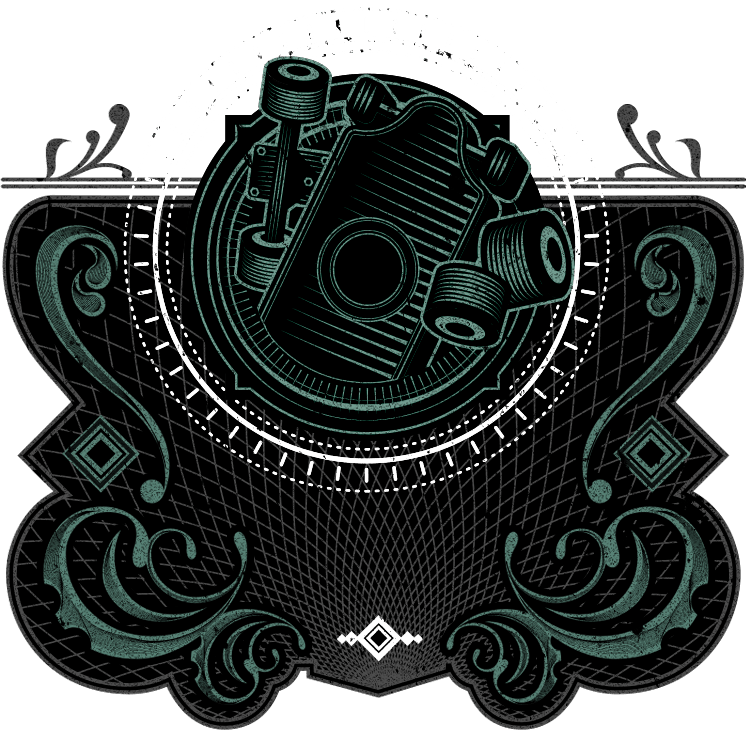
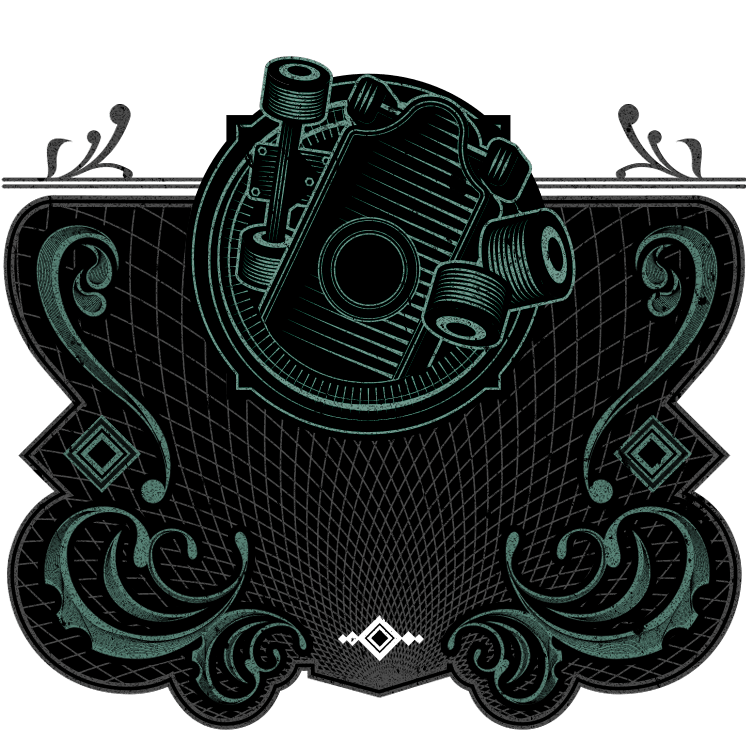
fix: (formDirective) responsive design

Changed region(s): [[0.0, 0.0602, 1.0, 1.0], [0.8324, 0.1505, 0.9558, 0.2408], [0.5858, 0.0602, 0.6166, 0.0903]]

diff --git a/app/assets/javascripts/directives/directives.js b/app/assets/javascripts/directives/directives.js
@@ -94,15 +94,15 @@
         //$('#deck').css('left',  (window.innerWidth - parseInt($('#deck').css('width')) )/2 );
         
         if(window.innerWidth <= minMobile && window.innerWidth >= minMinMobile ) {
-          porcentajeEscala('.relativeContent', porcentualrelativemobile, 'top');
+          //porcentajeEscala('.relativeContent', porcentualrelativemobile, 'top');
           porcentajeEscala('#deck', 4.421);
         }
         else if(window.innerWidth <= minMinMobile) {
-          porcentajeEscala('.relativeContent', porcentualrelativemobile, 'top');
+          //porcentajeEscala('.relativeContent', porcentualrelativemobile, 'top');
           porcentajeEscala('#deck', 4.890);
         }
         else {
-          porcentajeEscala('.relativeContent', porcentualrelative, 'top');
+          //porcentajeEscala('.relativeContent', porcentualrelative, 'top');
           porcentajeEscala('#deck', 3.06);
         }
         //#FIX mover al controlador
@@ -245,13 +245,26 @@
     })
     .directive('apContactDirective', function ContactDirective() {
     
+      function ressize() {
+        if(window.innerWidth<820) {
+          porcentajeEscala("#formu",0.45,'padding-top');
+        }
+        else
+        {
+          porcentajeEscala("#formu",0.29,'padding-top');
+        }
+      }
 
+      function link(scope, element) {
+      $(window).on('resize', ressize);
       
+      }
 
       var definitionObject = {
         restrict: 'E',
         replace:true,
-        templateUrl:'contact.html'
+        templateUrl:'contact.html',
+        link: link
       };
 
       return definitionObject;

diff --git a/app/assets/stylesheets/templates/contact.scss b/app/assets/stylesheets/templates/contact.scss
@@ -8,25 +8,26 @@
 
 #formu {
 	background: image-url("formulario.png");
-	background-repeat: no-repeat;
 	background-position: center top;
-	margin: 0 auto;
+	background-repeat: no-repeat;
 	background-size: 100%;
-	width: 80%;
-	padding: 24em 0;
-	text-align: center;
-	margin-top: 3em;
-	height: 100%;
 	font-family: "klavika_bdbold_italic";
+	height: 100%;
+	margin-top: 3em;
+	margin: 0 auto;
+	max-width: 1000px;
+	padding: 18em 0;
+	text-align: center;
+	width: 80%;
 	
 	& div {
 		background: image-url("barra_verde.png");
+		background-position: right 10px;
 		background-repeat: no-repeat;
 		background-size: 80% 5px;
-		background-position: right 10px;
 		margin: 0.8em auto;
-		width: 45%;
 		text-align: left;
+		width: 45%;
 		
 		&:last-child {
 			text-align: center;
@@ -48,5 +49,41 @@
 	}
 	input {
 		height: 27px;
+	}
+
+	#send {
+		width: 30%;
+	}
+}
+
+@media screen and (max-width: 1100px) {
+	#formu {
+		  padding: 15em 0;
+		  width: 90%;
+	}
+}
+
+@media screen and (max-width: 820px) {
+	#formu {
+		background-size: 160%;
+		padding: 22em 0;
+		width: 100%;
+		#send {
+			width: 40%;
+		}
+	}
+}
+@media screen and (max-width: 550px) {
+	#formu {
+		padding: 10em 0;
+		label{
+			font-size: 1em;
+		} 
+		input, textarea {
+			height: 17px;
+		}
+		#send {
+			width: 50%;
+		}
 	}
 }

diff --git a/app/assets/javascripts/controllers/FaceAppCtrl.js b/app/assets/javascripts/controllers/FaceAppCtrl.js
@@ -112,13 +112,18 @@
       $scope.showModal = function(type){
         $('.modal').show();
       }
+
+      $scope.hideModal = function (){
+         $('.modal').fadeOut();
+      };
+
       $scope.send = function(flag) {
         if (flag){
          $scope.user.authenticity_token = $cookies['XSRF-TOKEN'];
 
          emailSrv.post($scope.user).then(function(data) {
           $scope.user = {};
-          $('.modal').fadeOut();
+           $scope.hideModal();
          }, 
           function(data){
             console.log('NotCool');

diff --git a/app/assets/stylesheets/odi.scss b/app/assets/stylesheets/odi.scss
@@ -14,9 +14,17 @@ body {
 h1 {
 	margin: 0;
 }
+a, a:visited, a:active {
+	border:none;
+	color: inherit;
+}
 .relativeContent {
 	position: relative;
-	top: 19.5em;
+	top: 5em;
+}
+.center{
+	margin: 0 auto;
+	display: block;
 }
 
 .hidden {

diff --git a/app/assets/stylesheets/app.scss b/app/assets/stylesheets/app.scss
@@ -4,6 +4,11 @@
 	padding-top: 3em;
 	position: relative;
 	width: 100%;
+
+	img.center{
+		width: 26%;
+	}
+
 	#deck {
 		background: image-url("deckClean.png");
 		background-size: 100%;
